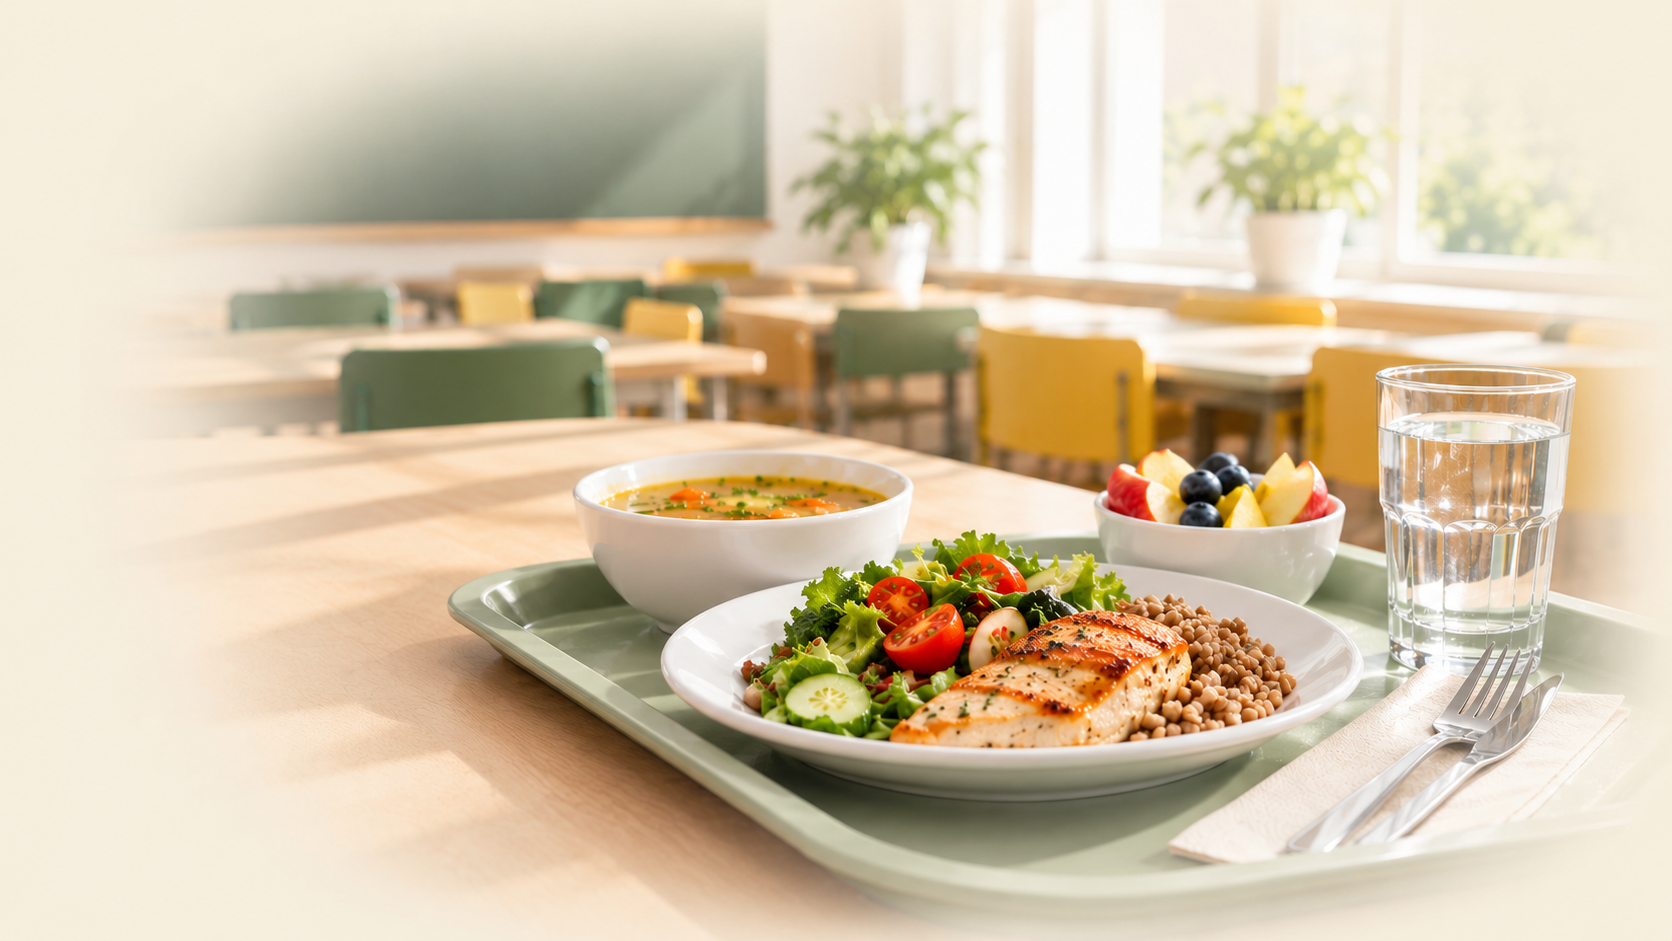
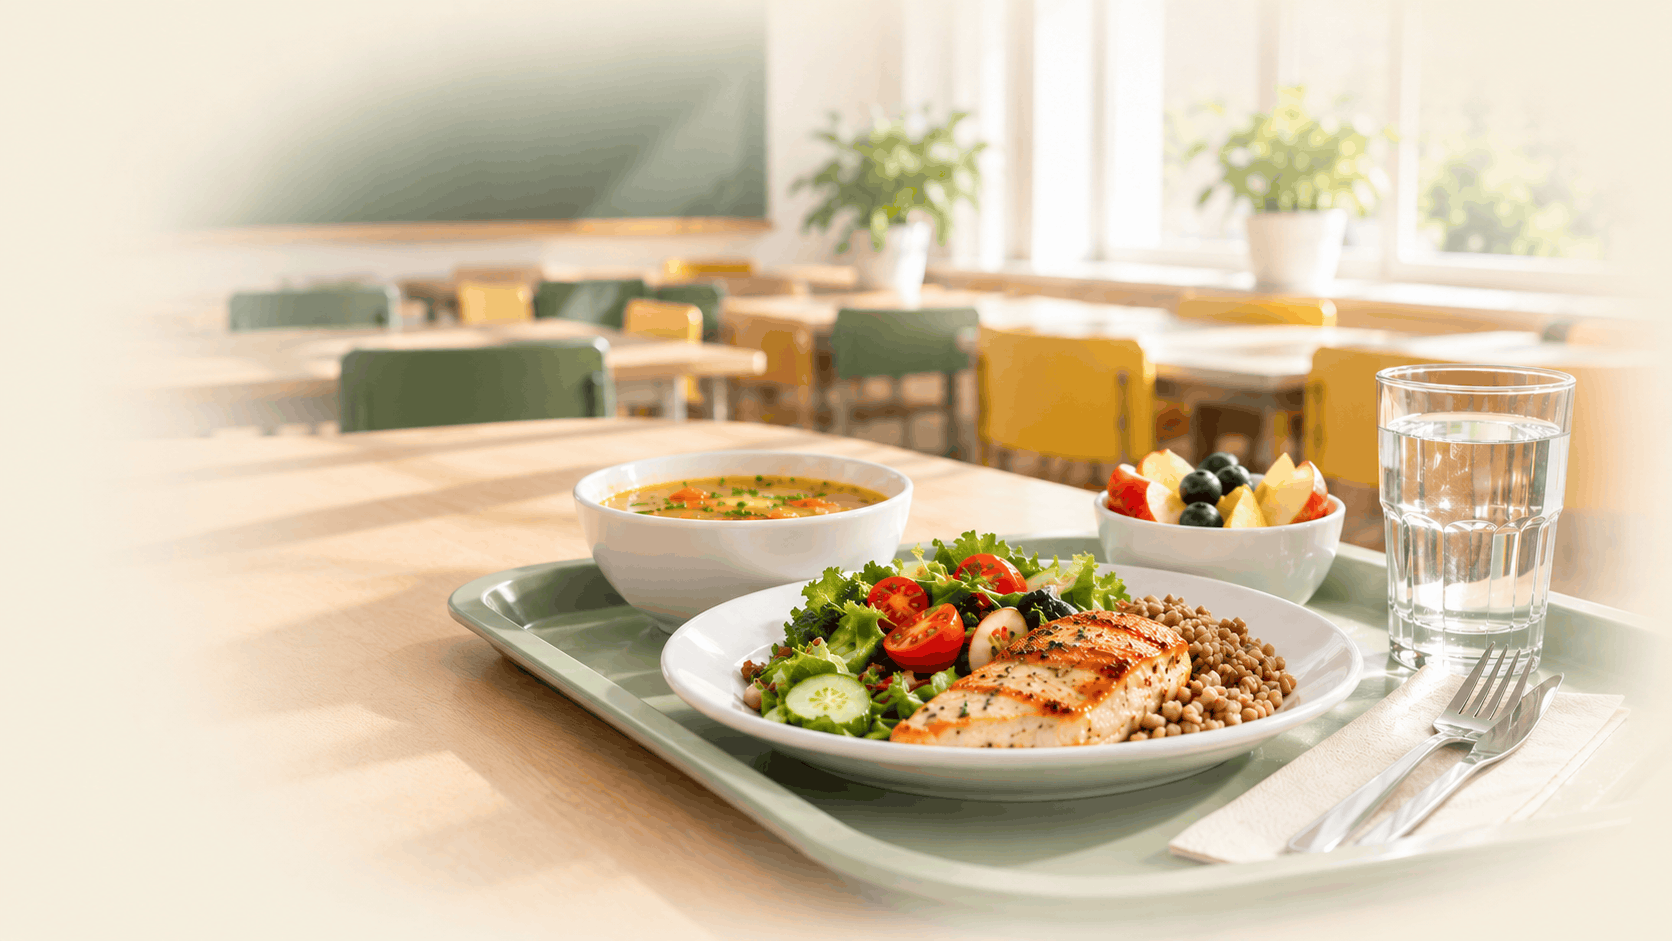
update

diff --git a/style.css b/style.css
@@ -4,8 +4,8 @@
 
 body {
     margin: 0;
-    background: #FFF4E8;
-    color: #4A3028;
+    background: #D8C6A5;
+    color: #292522;
     font-family: Arial, sans-serif;
 }
 
@@ -15,7 +15,7 @@ header {
     z-index: 10;
     width: 100%;
     height: 75px;
-    background: #8b3838;
+    background: #514438;
     display: flex;
     align-items: center;
     justify-content: center;
@@ -28,7 +28,7 @@ nav {
 }
 
 nav a {
-    color: #FFF4E8;
+    color: #D8C6A5;
     text-decoration: none;
     padding: 10px 18px;
     border-radius: 20px;
@@ -36,8 +36,8 @@ nav a {
 }
 
 nav a:hover {
-    background: #e97c7c;
-    color: #4A3028;
+    background: #D8C6A5;
+    color: #292522;
 }
 
 section {
@@ -52,18 +52,18 @@ section > div {
     margin: 25px 0;
     border-radius: 25px;
     text-align: left;
-    border-left: 6px solid #e97c7c;
+    border-left: 6px solid #9B8065;
     box-shadow: 0 8px 25px rgba(169, 67, 54, 0.1);
 }
 
 h1 {
-    color: #8b3838;
+    color: #514438;
     font-size: 48px;
 }
 
 h2,
 h3 {
-    color: #8b3838;
+    color: #514438;
 }
 
 h3 {
@@ -72,7 +72,7 @@ h3 {
 
 p,
 li {
-    color: #4A3028;
+    color: #292522;
     font-size: 17px;
     line-height: 1.7;
 }
@@ -96,7 +96,7 @@ li {
 .div1 h3,
 .div1 p {
     width: 45%;
-    background: rgba(255, 244, 232, 0.92);
+    background:#FFFFFF;
     padding: 15px 20px;
     border-radius: 15px;
 }
@@ -108,7 +108,7 @@ li {
 .div10 {
     
 
-    background-image: url("img/фрукти.jpg");
+    background-image: url("img/fruits.jpg");
     background-size: cover;
     background-position: center;
     background-repeat: no-repeat;
@@ -124,7 +124,7 @@ li {
 .div10 h3,
 .div10 p {
     width: 45%;
-    background: rgba(255, 244, 232, 0.92);
+    background: #FFFFFF;
     padding: 15px 20px;
     border-radius: 15px;
 }
@@ -136,7 +136,7 @@ li {
 .div9 {
     
 
-    background-image: url("img/суп.png");
+    background-image: url("img/soup.png");
     background-size: cover;
     background-position: center;
     background-repeat: no-repeat;
@@ -152,7 +152,7 @@ li {
 .div9 h3,
 .div9 p {
     width: 45%;
-    background: rgba(255, 244, 232, 0.92);
+    background: #FFFFFF;
     padding: 15px 20px;
     border-radius: 15px;
 }
@@ -164,7 +164,7 @@ li {
 .div8 {
     
 
-    background-image: url("img/крупи.jpg");
+    background-image: url("img/cereals.jpg");
     background-size: cover;
     background-position: center;
     background-repeat: no-repeat;
@@ -180,7 +180,7 @@ li {
 .div8 h3,
 .div8 p {
     width: 45%;
-    background: rgba(255, 244, 232, 0.92);
+    background: #FFFFFF;
     padding: 15px 20px;
     border-radius: 15px;
 }
@@ -192,7 +192,7 @@ li {
 .div7 {
     
 
-    background-image: url("img/висновок.jpg");
+    background-image: url("img/conclusion.jpg");
     background-size: cover;
     background-position: center;
     background-repeat: no-repeat;
@@ -208,7 +208,7 @@ li {
 .div7 h3,
 .div7 p {
     
-    background: rgba(255, 244, 232, 0.92);
+    background: #FFFFFF;
     padding: 15px 20px;
     border-radius: 15px;
 }
@@ -218,7 +218,7 @@ li {
 }
 
 strong {
-    color: #8b3838;
+    color: #514438;
 }
 
 
@@ -227,7 +227,7 @@ strong {
     display: none;
     background: none;
     border: none;
-    color: #FFF4E8;
+    color: #D8C6A5;
     font-size: 30px;
     cursor: pointer;
 }
@@ -251,8 +251,8 @@ section > div.show {
 
 
 nav a.active {
-    background: #FFF4E8;
-    color: #8b3838;
+    background: #D8C6A5;
+    color: #514438;
 }
 
 
@@ -264,8 +264,8 @@ nav a.active {
     height: 48px;
     border: none;
     border-radius: 50%;
-    background: #8b3838;
-    color: #FFF4E8;
+    background: #514438;
+    color: #D8C6A5;
     font-size: 27px;
     cursor: pointer;
     opacity: 0;
@@ -282,8 +282,8 @@ nav a.active {
 }
 
 .top-button:hover {
-    background: #e97c7c;
-    color: #4A3028;
+    background: #9B8065;
+    color: #292522;
 }
 
 @media (prefers-reduced-motion: reduce) {

diff --git a/menu.html b/menu.html
@@ -1,5 +1,5 @@
 <!DOCTYPE html>
-<html lang="ua">
+<html lang="uk">
 <head>
     <meta charset="UTF-8">
     <meta name="viewport" content="width=device-width, initial-scale=1.0">
@@ -54,6 +54,7 @@
             <p>Риба також є важливою складовою різноманітного раціону.</p>
             <p>Її можна подавати як окрему основну страву разом із гарніром та овочами.</p>
         </div>
+        
         <div class="div8">
             <h3>Крупи та гарніри</h3>
             <p>До гарнірів можуть належати гречка, рис, інші крупи, макаронні вироби, картопля та овочі.</p>

diff --git a/health.html b/health.html
@@ -1,5 +1,5 @@
 <!DOCTYPE html>
-<html lang="ua">
+<html lang="uk">
 <head>
     <meta charset="UTF-8">
     <meta name="viewport" content="width=device-width, initial-scale=1.0">

diff --git a/index.html b/index.html
@@ -1,5 +1,5 @@
 <!DOCTYPE html>
-<html lang="ua">
+<html lang="uk">
 <head>
     <meta charset="UTF-8">
     <meta name="viewport" content="width=device-width, initial-scale=1.0">

diff --git a/standards.html b/standards.html
@@ -1,5 +1,5 @@
 <!DOCTYPE html>
-<html lang="ua">
+<html lang="uk">
 <head>
     <meta charset="UTF-8">
     <meta name="viewport" content="width=device-width, initial-scale=1.0">
